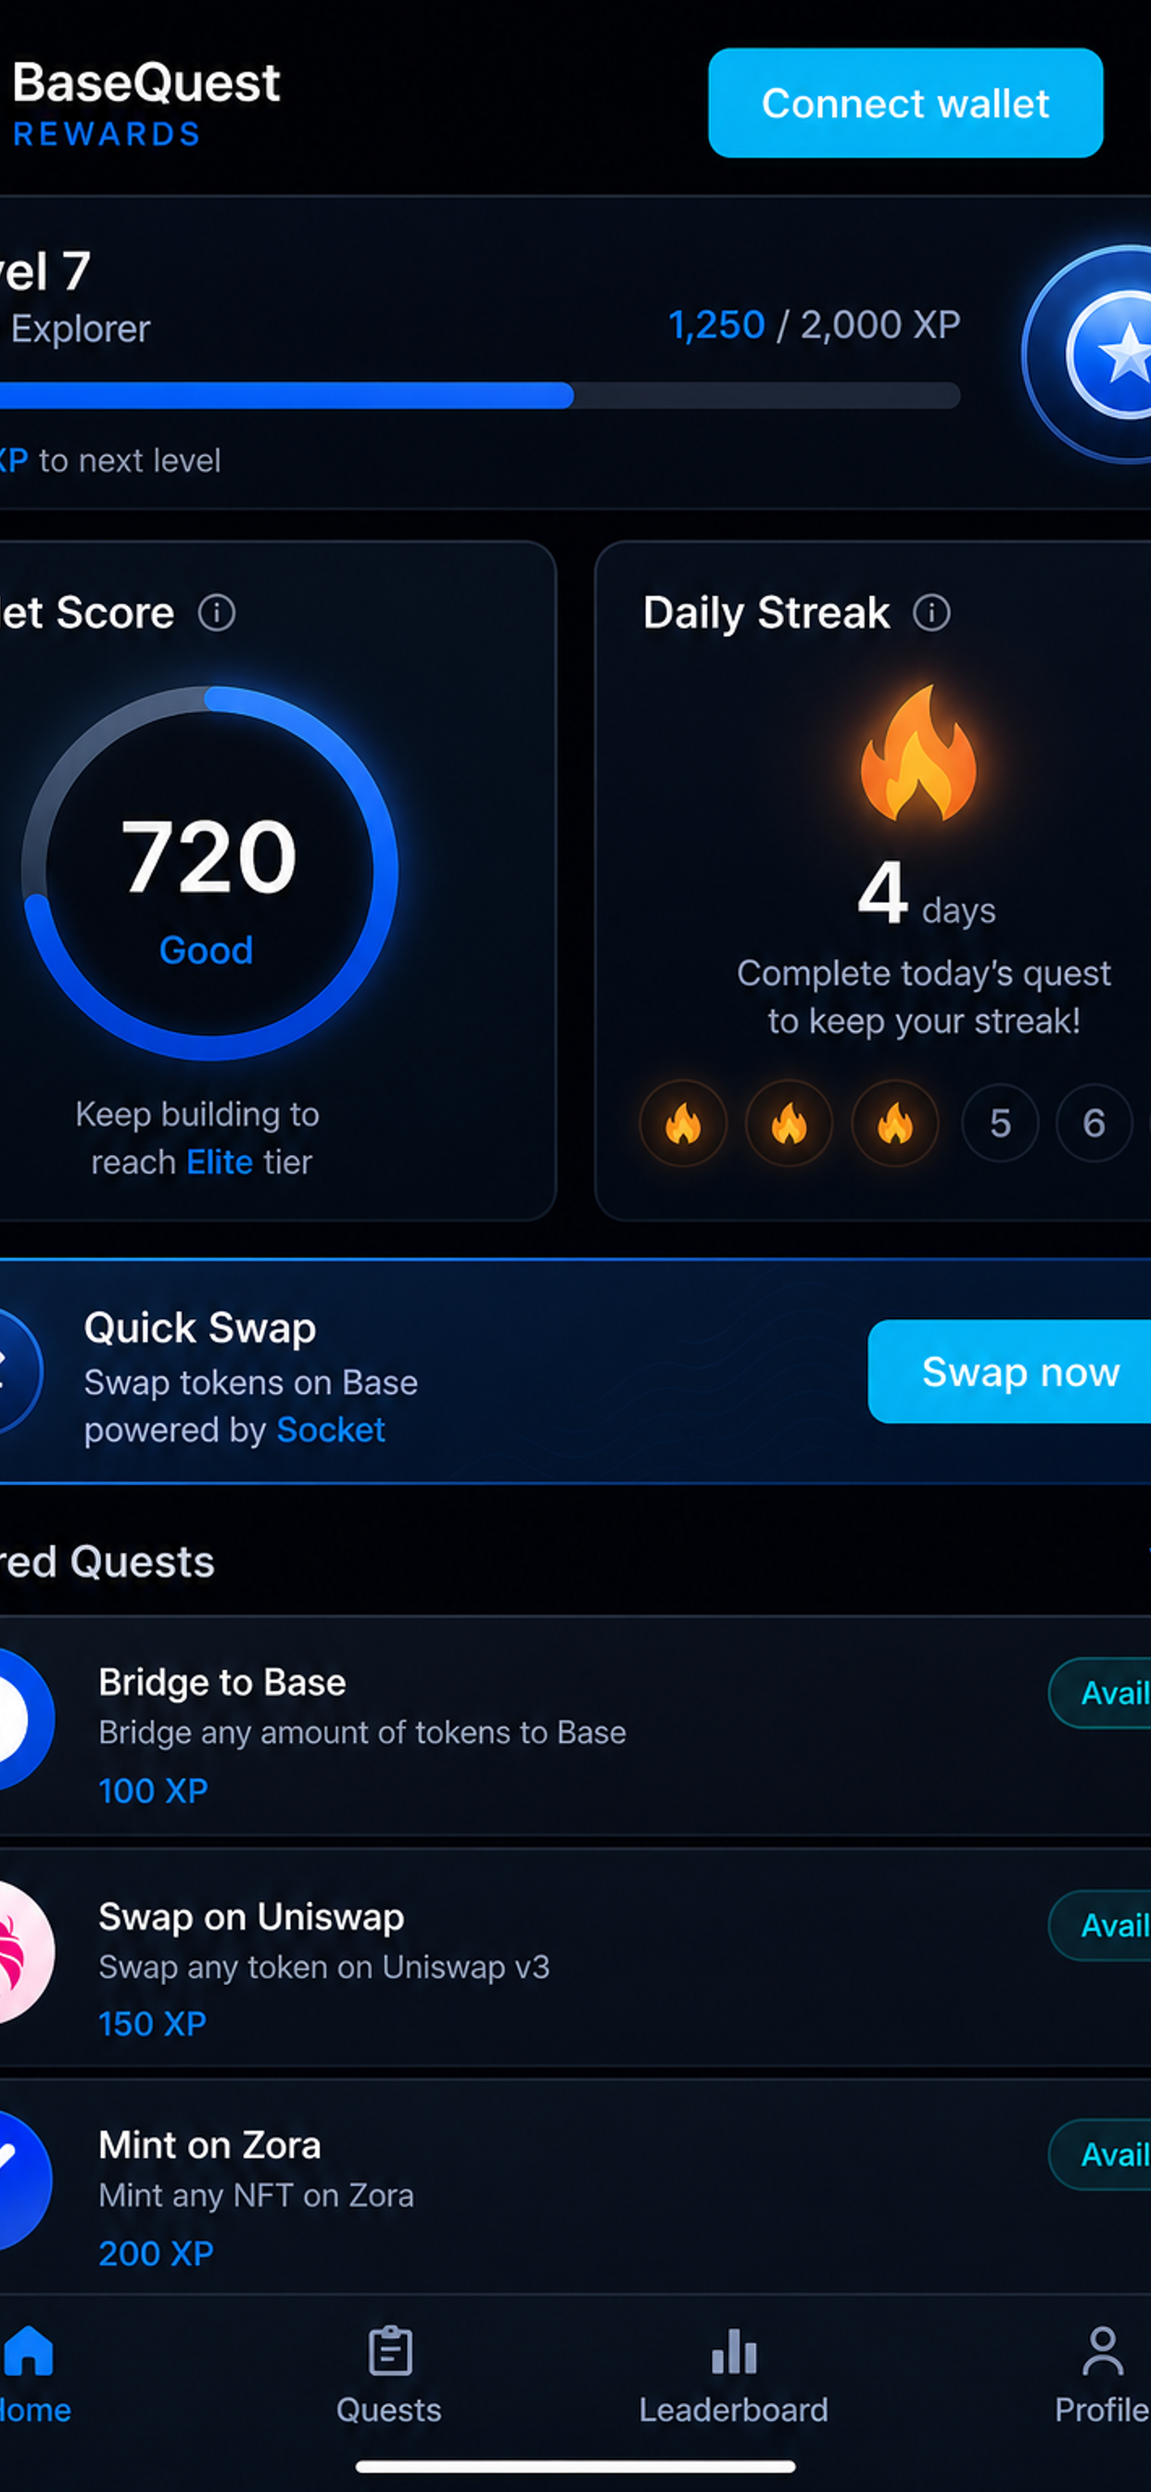
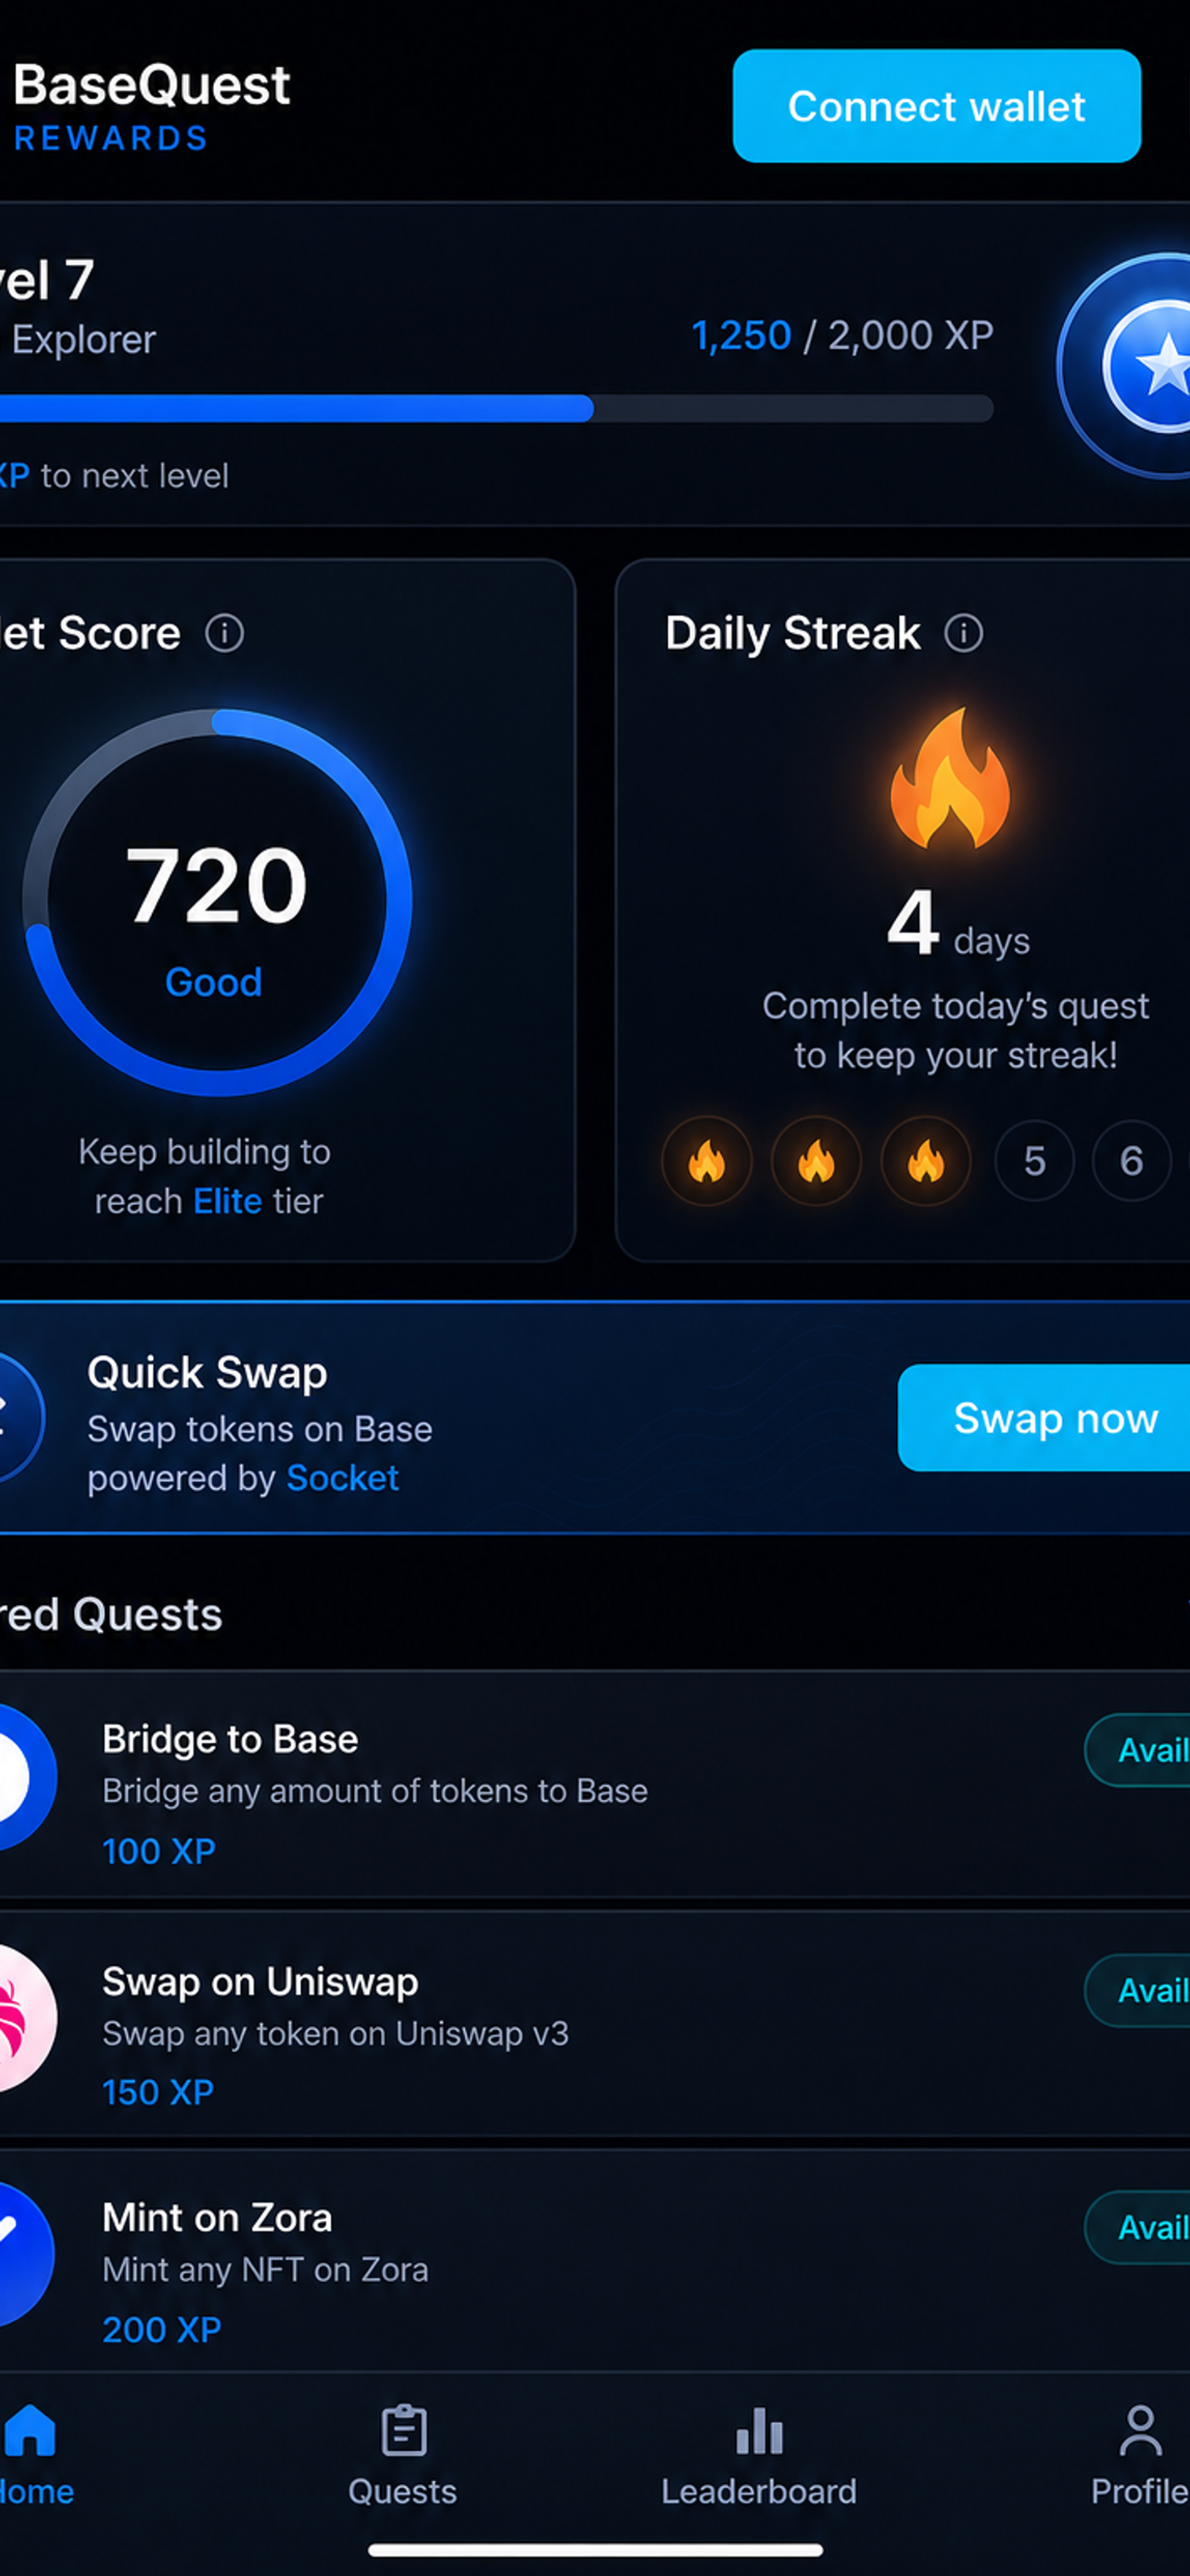
fix: complete Farcaster Mini App production metadata

diff --git a/app/.well-known/farcaster.json/route.ts b/app/.well-known/farcaster.json/route.ts
@@ -15,19 +15,30 @@ const farcasterManifest = {
     name: "BaseQuest Rewards",
     homeUrl: `${APP_URL}/`,
     iconUrl: `${APP_URL}/app-icon.png`,
-    imageUrl: `${APP_URL}/og-image.png`,
-    splashImageUrl: `${APP_URL}/splash.png`,
+    // Deprecated feed embed fields (kept for older clients).
+    imageUrl: `${APP_URL}/embed-image.png`,
+    buttonTitle: "Open BaseQuest",
+    splashImageUrl: `${APP_URL}/splash-icon.png`,
     splashBackgroundColor: "#0052FF",
+    webhookUrl: `${APP_URL}/api/webhook`,
     subtitle: "Daily rewards on Base",
     description:
       "Complete quests. Earn XP. Unlock rewards on the Base ecosystem.",
     primaryCategory: "finance",
+    tags: ["base", "quests", "rewards", "xp", "web3"],
     heroImageUrl: `${APP_URL}/hero.png`,
+    tagline: "Quests into rewards",
+    ogTitle: "BaseQuest Rewards",
+    ogDescription: "Complete quests. Earn XP. Unlock rewards on Base.",
+    ogImageUrl: `${APP_URL}/og-image.png`,
     screenshotUrls: [
       `${APP_URL}/screenshots/home.png`,
       `${APP_URL}/screenshots/quests.png`,
       `${APP_URL}/screenshots/leaderboard.png`,
     ],
+    requiredChains: ["eip155:8453"],
+    requiredCapabilities: ["wallet.getEthereumProvider"],
+    canonicalDomain: "basequest.online",
   },
 } as const;
 
